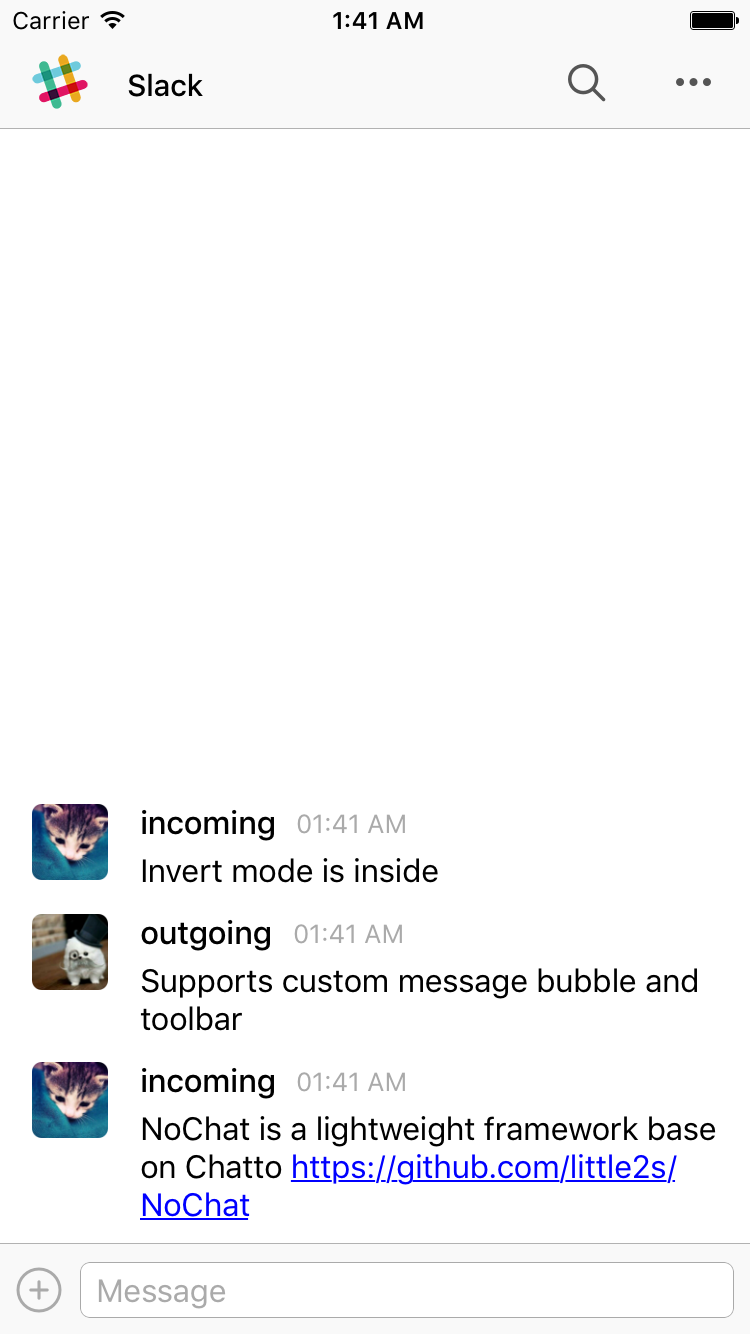
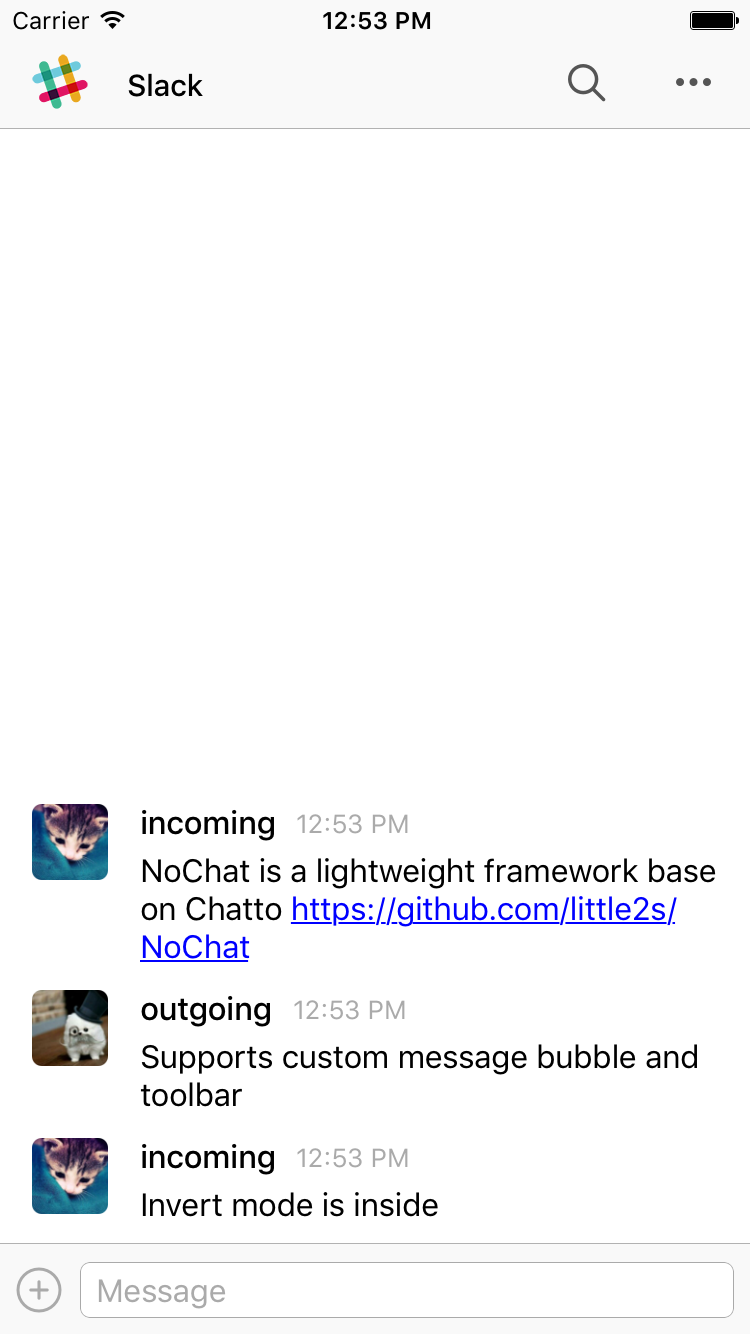
fix display for slack demo

Changed region(s): [[0.184, 0.6147, 0.9507, 0.922], [0.0307, 0.6762, 0.1533, 0.922], [0.4293, 0.0, 0.5827, 0.0307]]

diff --git a/Demo/Demo/DemoChatIemFactory.swift b/Demo/Demo/DemoChatIemFactory.swift
@@ -156,7 +156,7 @@ class DemoChatItemFactory {
                     let isIncomming = (senderId == "incoming")
                     
                     let chatItem = SLKMessageFactory.createTextMessage(text: item.1, senderId: senderId, isIncoming: isIncomming)
-                    result.append(chatItem)
+                    result.insert(chatItem, atIndex: 0)
                 }
             }
             
